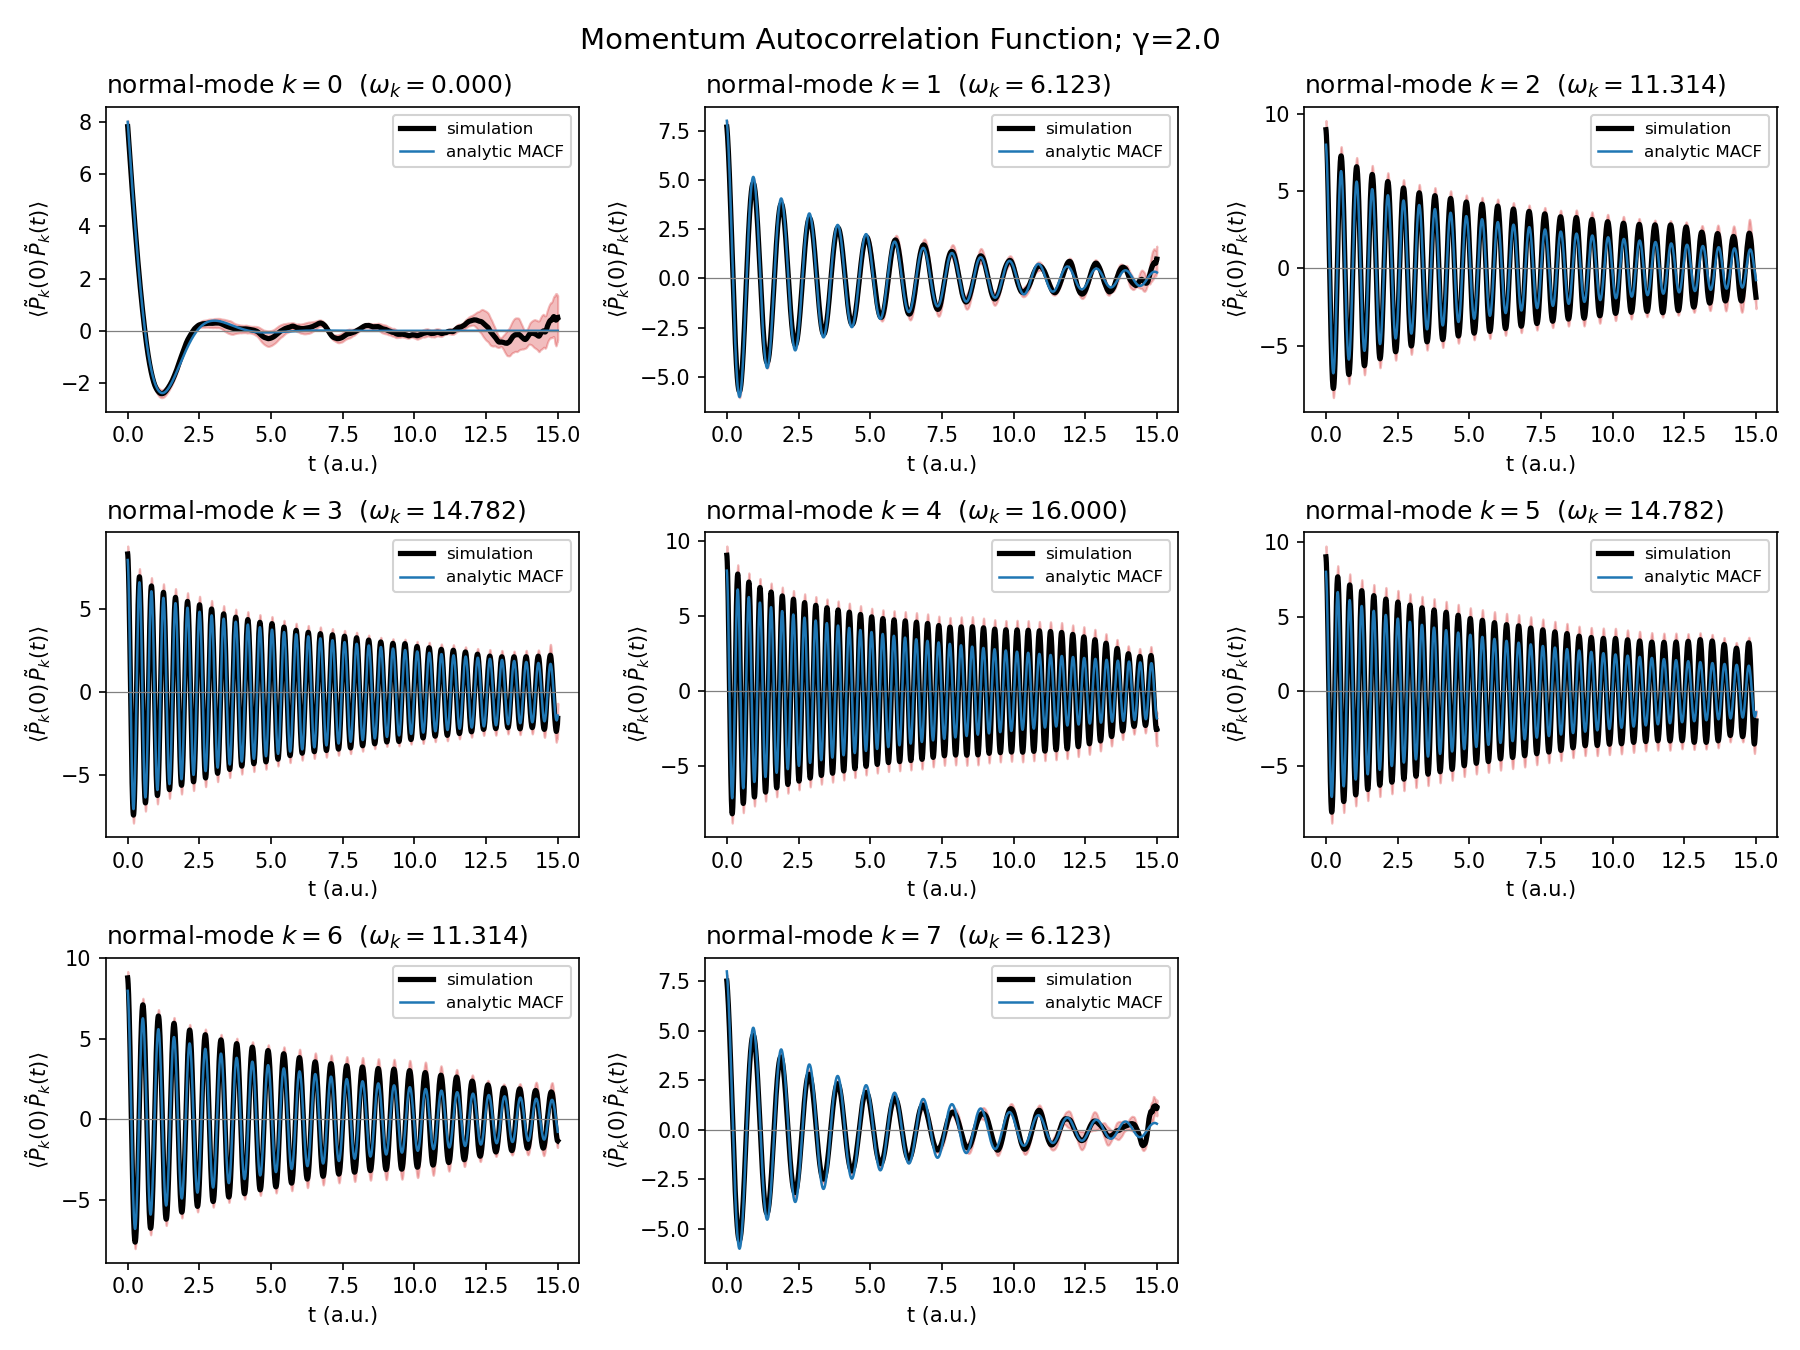
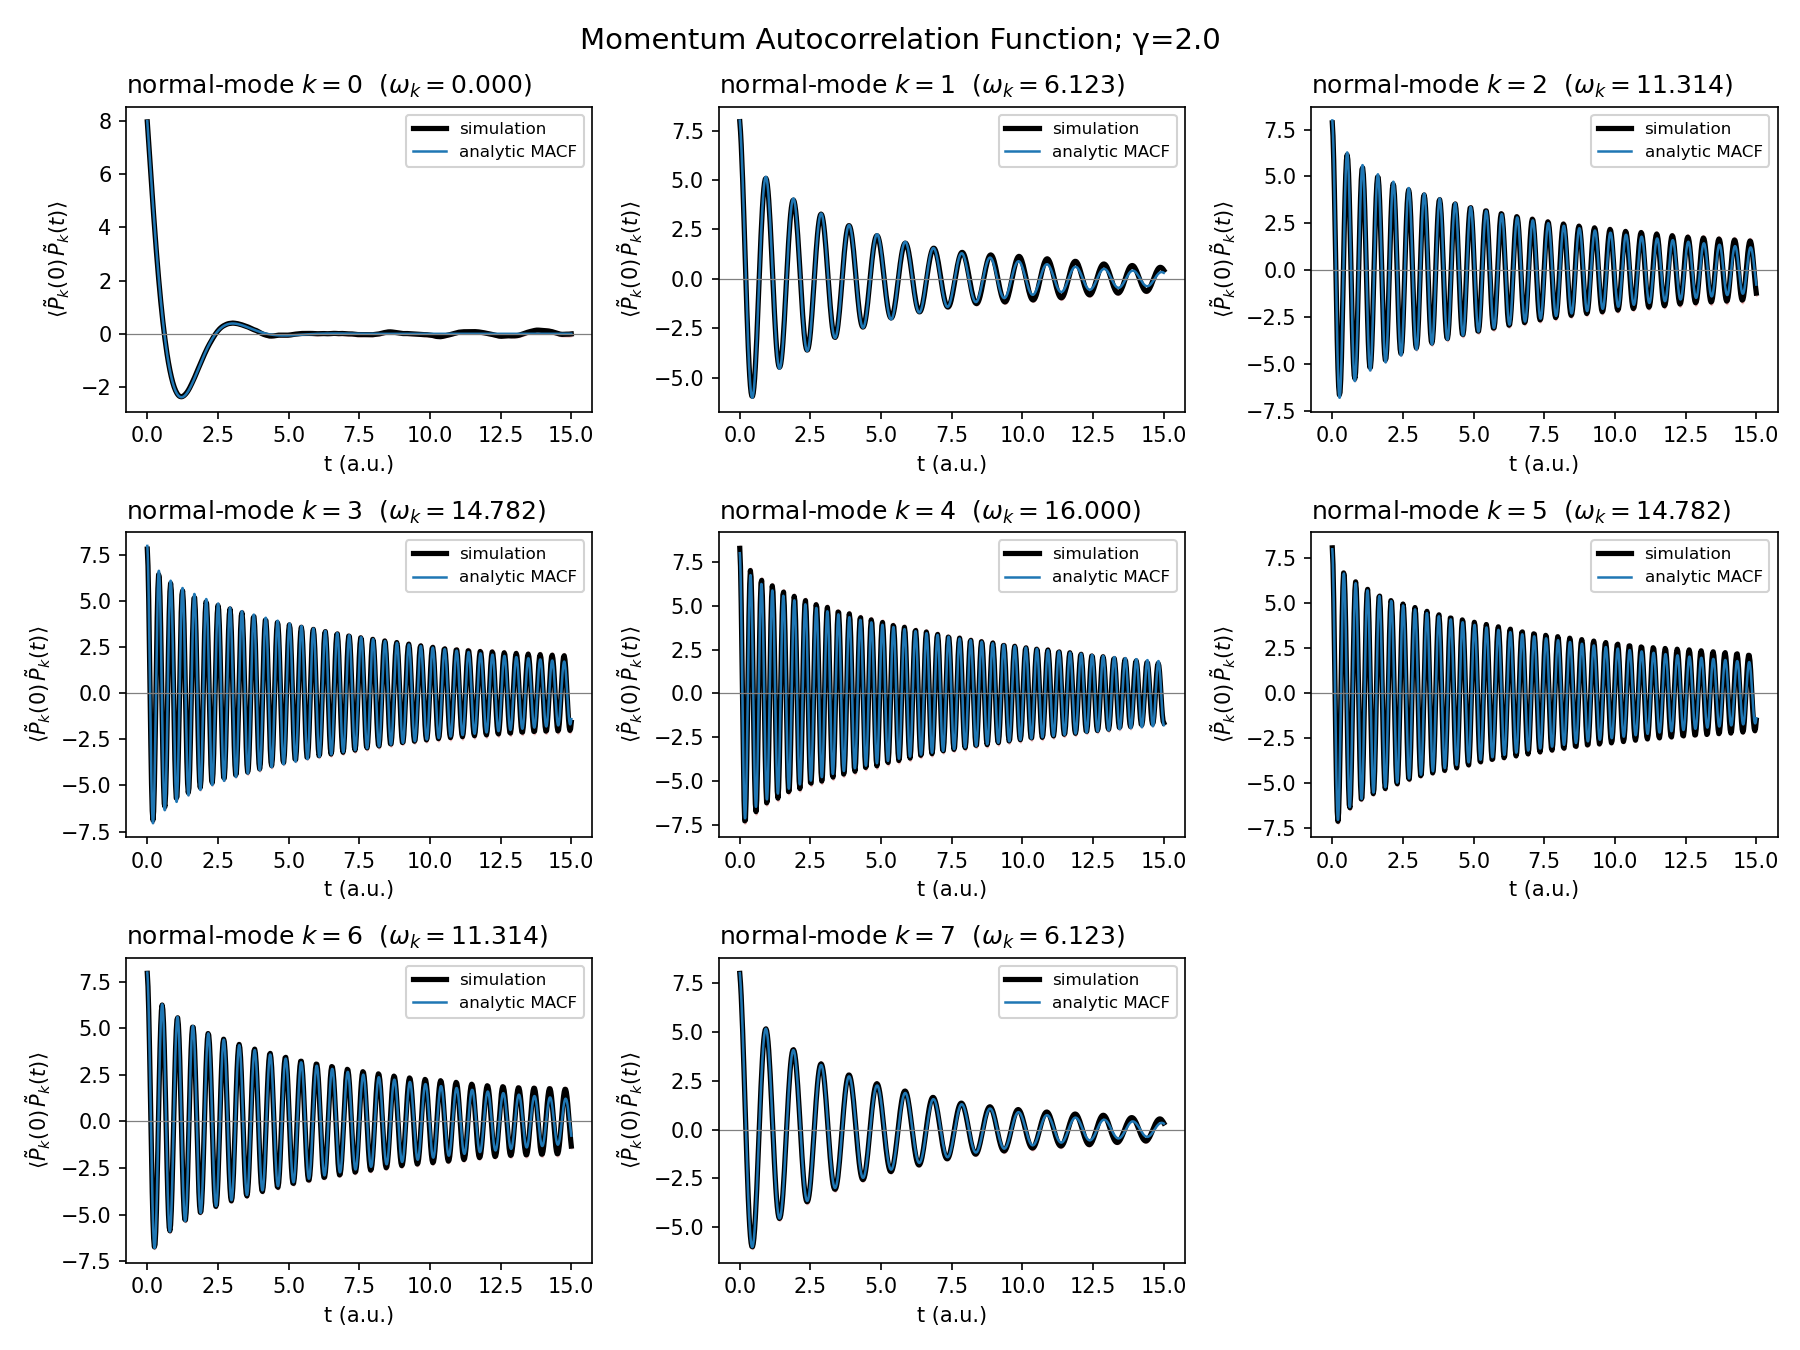
moving back to local to do more workflow modifications

diff --git a/junktest/multi_traj/config.py b/junktest/multi_traj/config.py
@@ -10,23 +10,27 @@ import numpy as np
 
 CONFIG = {
     # ----------------------------------------------------------------- orchestration (workflow)
-    'n_traj'     : 100,             # number of independent trajectories to run
+    'n_traj'     : 900,             # number of independent trajectories to run
     'base_seed'  : None,       # int -> reproducible; None -> fresh OS entropy each trajectory
     'grid_dir'   : 'traj_grid',    # subdir (relative to this file) holding traj0/, traj1/, ...
-    'ncores'     : 13,             # local cores for `python -m workflow.runner`
+    'ncores'     : 1,             # local cores for `python -m workflow.runner`
     'system_file': 'traj.py',    # the module providing run_trajectory(cfg, seed)
 
     # SLURM knobs, used only by `python -m workflow.slurm` (safe to ignore locally)
     'slurm': {
+        'max_tasks'     : 495,
         'job_name'      : 'rpmash_grid',
-        'time'          : '02:00:00',
+        'time'          : '24:00:00',
         'cpus_per_task' : 1,
         'max_concurrent': None,        # e.g. 50 -> "--array=0-N%50"
         'partition'     : None,
-        'account'       : None,
-        'mem'           : None,
+        'account'       : 'gts-jkretchmer3-chemx',
+        'mem'           : '16GB',
         'python'        : 'python',
         'extra_directives': [],        # raw "#SBATCH ..." lines if you need something uncommon
+        'extra_commands': [
+            'eval "$(/storage/home/hcoda1/8/vsuarez6/r-jkretchmer3-0/MiniConda/bin/conda shell.bash hook)"',
+            'conda activate map-rpmd'],
     },
 
     # ----------------------------------------------------------------- physics (read by traj.py)
@@ -38,17 +42,17 @@ CONFIG = {
 
     # Marcus ET model (atomic units)
     'kvec'  : 4.0,
-    'epsil' : 0.0,
-    'lbd'   : 500.0,
-    'delta' : 10 ** (-5),
+    'epsil' : -100.0,
+    'lbd'   : 12.0,
+    'delta' : 10**(-7),
     'bath'  : [0, 1.0, 2.0, 2.0],     # [N_bath, mass, gamma, w_b]; N_bath=0 -> no explicit bath
 
     # integrator / thermostat
     #'intype'         : 'vv',
     'intype'         : 'spin_magnus_adaptive',
-    'delt'           : 0.002,
-    'total_time'     : 25.,        # a.u.; Nsteps = total_time / delt
-    'Nprint'         : 1,
+    'delt'           : 0.0005,
+    'total_time'     : 40.,        # a.u.; Nsteps = total_time / delt
+    'Nprint'         : 50,
     'langevin'       : 'generalized',
-    'langevin_params': {'gamma': 2.00, 'Tmem': 10.00, 'Tfluc': 100.0},
+    'langevin_params': {'gamma': 2.00, 'Tmem': 25.00, 'Tfluc': 40.0},
 }
